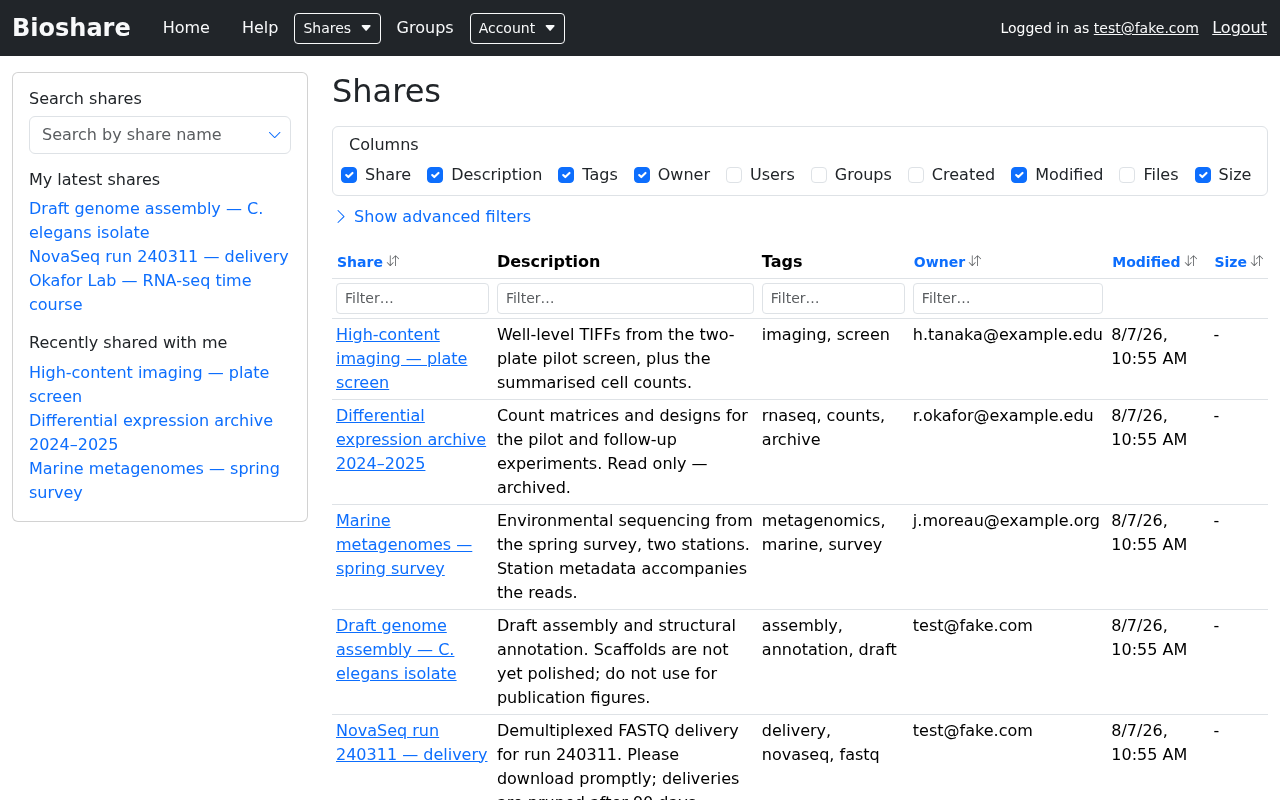
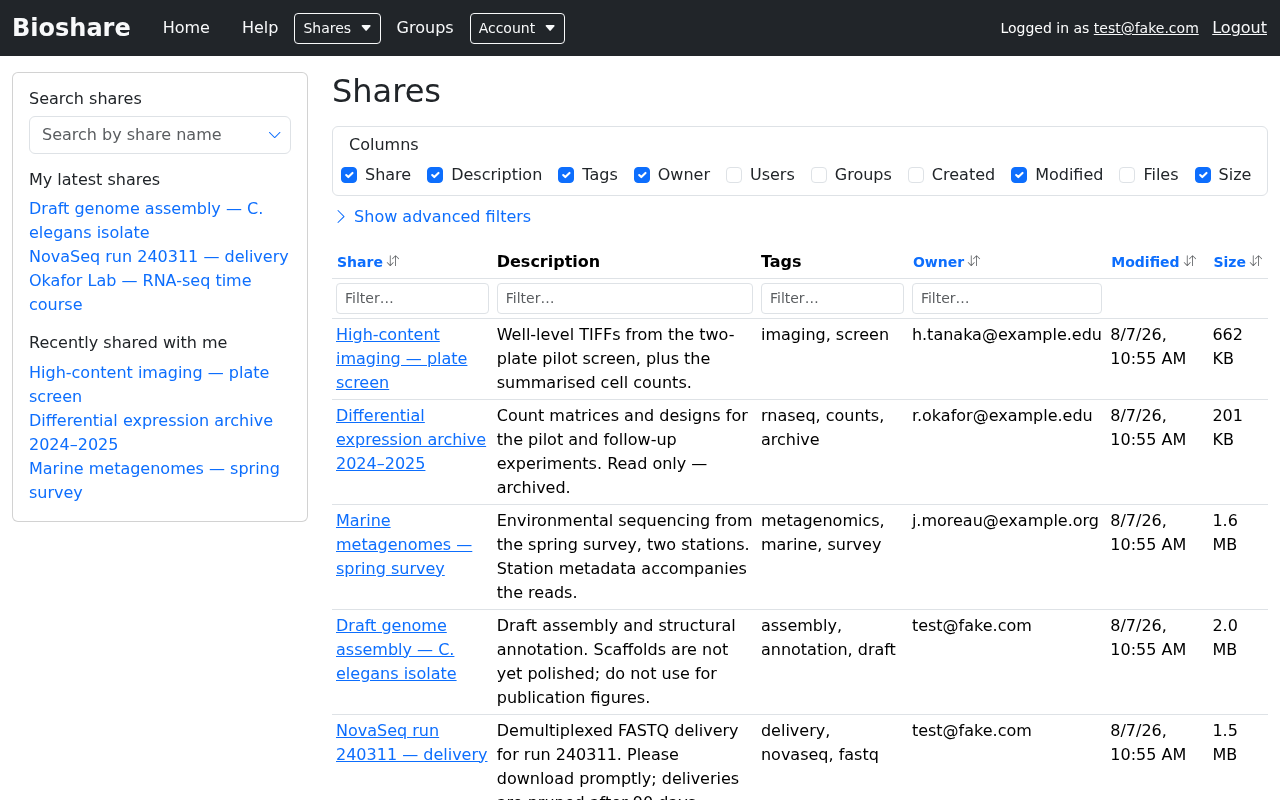
Recapture with group membership and share sizes populated
The re-seeded data fills the two gaps the previous screenshots exposed: the
Groups page now lists all four groups rather than just the pre-existing test
one, and the Size column shows real figures (662 KB to 2.0 MB) instead of a
dash in every row.

Having a computed size also revealed how the control actually behaves, which
the prose had wrong. The panel shows the value together with when it was
calculated, and the Update link is conditional -- templates/list.html only
renders it when the viewer has admin on the share AND the figure is missing or
ShareStats.can_update() says it is over an hour old. The docs previously told
readers to click a link that is absent most of the time; they now explain when
it appears and why, and browsing-shares.md points at that explanation instead
of repeating it.

Screenshots verified byte-identical across two consecutive capture runs.

diff --git a/docs/managing-shares.md b/docs/managing-shares.md
@@ -15,9 +15,19 @@ stop working, so avoid it once a share is in circulation.
 
 ## Storage used
 
-The share information panel shows **Share size**, but it is not recalculated on
-every page load — that would be expensive on a large share. Click **Update** beside
-it to compute the current figure.
+The share information panel shows **Share size** along with when that figure was
+calculated, for example *2.3MB (updated Aug. 7, 2026, 11:47 a.m.)*. It is not
+recalculated on every page load — walking a large share is expensive — so treat the
+timestamp as part of the answer.
+
+An **Update** link appears next to it to recompute on demand, but only when both are
+true:
+
+- you have **Admin** permission on the share, and
+- the size is either unknown or more than an hour old.
+
+So if you have just uploaded data and no link is offered, the figure was computed
+within the last hour. Wait, then reload.
 
 The home page also reports your overall storage. That total comes from statistics
 refreshed on a schedule rather than live, so it can lag recent uploads; the note

diff --git a/docs/browsing-shares.md b/docs/browsing-shares.md
@@ -19,7 +19,7 @@ The panel beneath it summarises the share:
 | **Sharing** | How many users and groups have access. Click **Sharing** to see them |
 | **Description** | Free text set by the owner |
 | **Tags** | Labels used to categorise and find the share |
-| **Share size** | Total size. This is not computed continuously — click **Update** to calculate it now |
+| **Share size** | Total size, with the time it was calculated. It is not recomputed on every visit — see [Storage used](managing-shares.md#storage-used) |
 
 ## The file list
 
